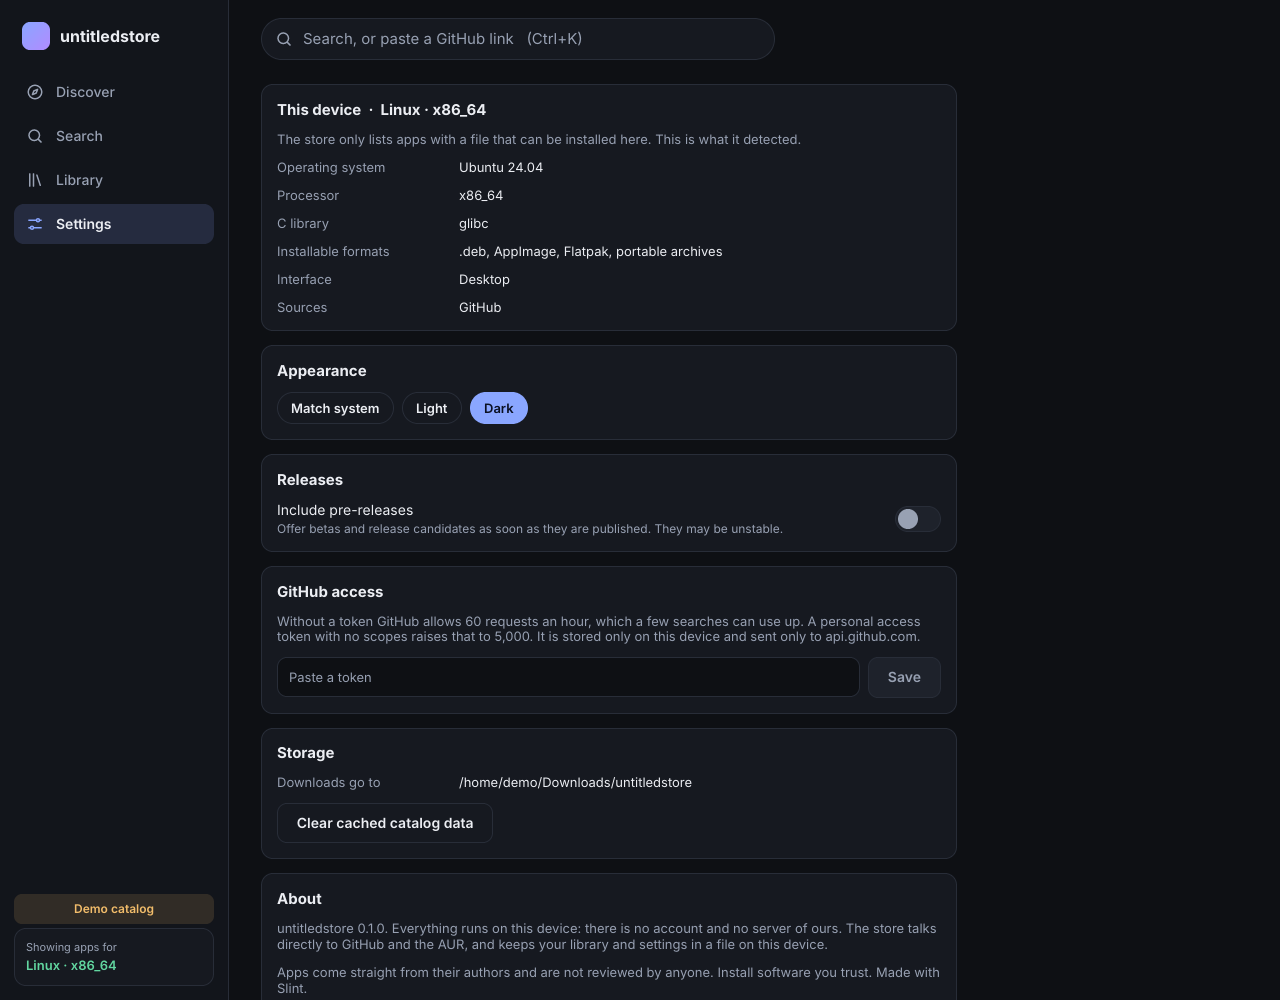
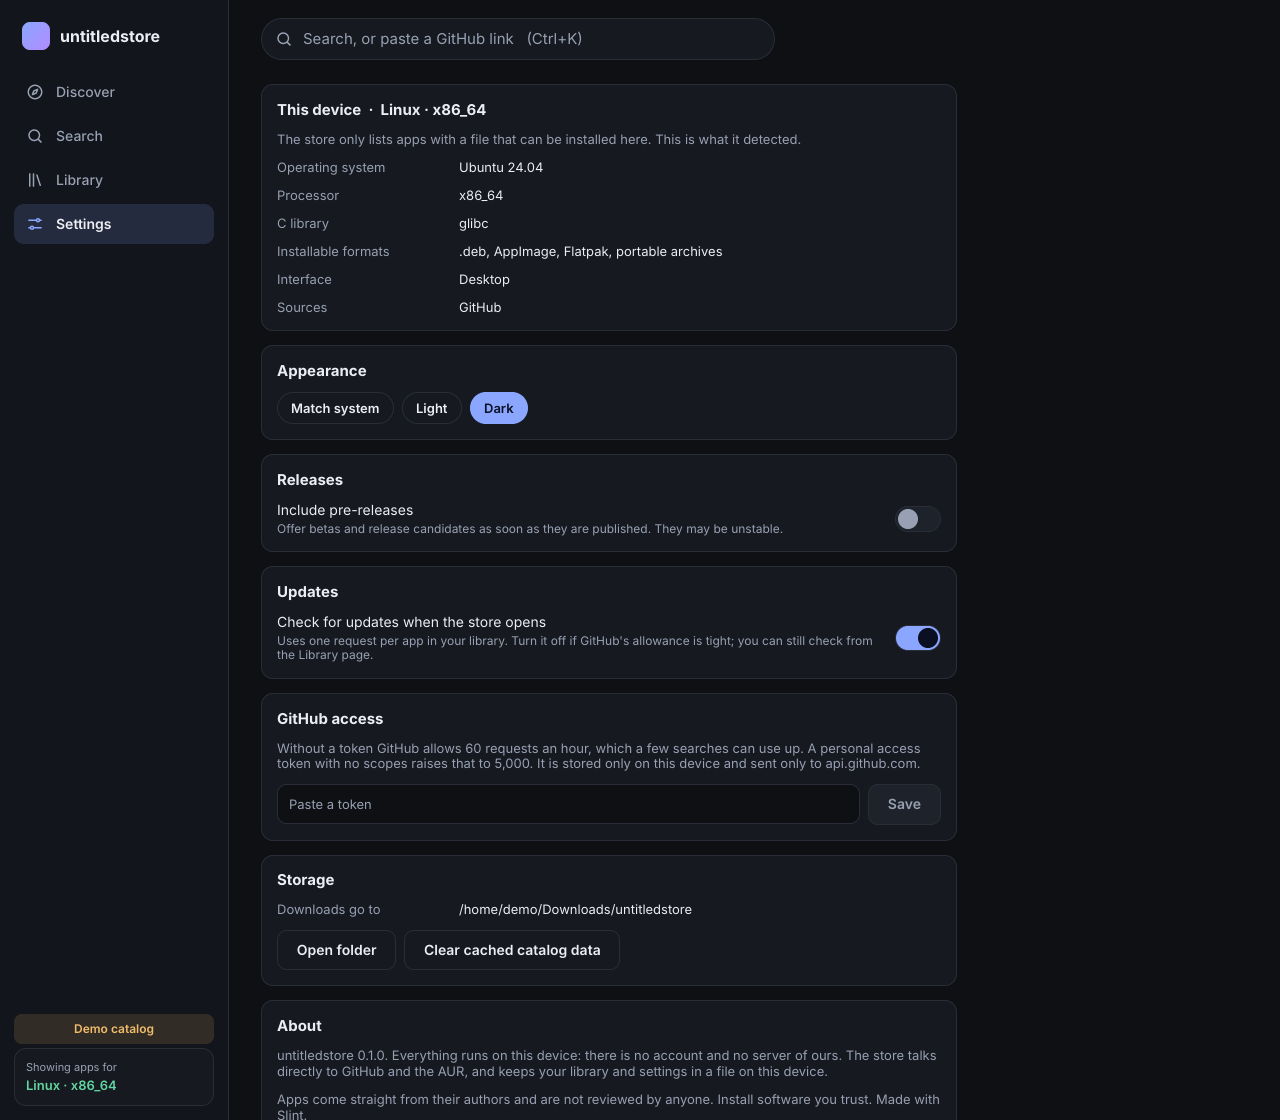
Stack storage buttons on phones; bring the documentation up to date
Claude-Session: https://claude.ai/code/session_01HGFb9u9kBDoKGezZG4dEng

diff --git a/docs/DESIGN.md b/docs/DESIGN.md
@@ -200,7 +200,11 @@ per repository. Consequences:
   shows it ("42 of 60 GitHub requests left; refills in 23 minutes"), and a rate-limit
   error says how to raise the limit. **[verified]** by test.
 - **Search checks a bounded number of hits** (8 without a token, 20 with), in parallel,
-  and reports how many matched but had nothing for this device.
+  and reports how many matched but had nothing for this device. Typing costs nothing:
+  suggestions come from the bundled index. An AUR search is a single request, because
+  its results already carry everything needed. **[verified]** by test.
+- **The start-up update check can be switched off** in Settings (one request per
+  library app).
 - **Responses are cached on disk** for 30 minutes, and a stale copy is served when
   offline or rate limited. **[verified]** by test.
 - **A personal token** lifts the limit to 5,000 per hour **[sourced]** (same page). It can
@@ -325,19 +329,19 @@ been run on a television.
 
 ## 8. Testing
 
-126 tests, none needing the internet. **[verified]**: all pass on Linux here, and the
-suite passed on GitHub's Linux, Windows and macOS runners (run 3 of the CI workflow, at
-the "Match search suggestions on word starts" commit; later commits are checked by the
-same workflow).
+139 tests, none needing the internet. **[verified]**: all pass on Linux here. The suite
+also passed on GitHub's Linux, Windows and macOS runners at an earlier commit (CI run 3);
+see the end of the hand-over notes for the status of the final commit.
 
 | Suite | Count | What it exercises |
 |---|---|---|
-| `ustore-core` unit tests | 58 | detection, classification, compatibility, versions, state file, install plans and execution, index, suggestions, catalog |
+| `ustore-core` unit tests | 60 | detection, classification, compatibility, versions, state file, install plans and execution, index, suggestions, catalog |
 | `core/tests/corpus.rs` | 4 | 169 real-world-style names; cross-OS/CPU safety property; 20,000 generated names |
-| `core/tests/http_sources.rs` | 15 | the real HTTP client and both sources against a local server: headers, token scoping, rate limits, allowance, progress, cancel, cache, documented JSON shapes, garbage responses |
-| `cli/tests/cli.rs` | 7 | the `ustore` binary end to end, including install, library and updates |
-| `app/tests/ui.rs` | 31 | the real window on Slint's headless backend: clicks by accessible label, key presses, all three interfaces |
-| `app/tests/binary.rs` | 5 | the real application (threads, event loop, software renderer) under `xvfb-run`, Linux only |
+| `core/tests/http_sources.rs` | 16 | the real HTTP client and both sources against a local server: headers, token scoping, rate limits, allowance, progress, cancel, cache, documented JSON shapes, garbage responses |
+| `cli/tests/cli.rs` | 8 | the `ustore` binary end to end, including install, library, updates and `doctor` |
+| `app/tests/ui.rs` | 34 | the real window on Slint's headless backend: clicks by accessible label, key presses, all three interfaces |
+| `app/tests/offline.rs` | 5 | the same window with a transport that goes offline or rate limited on demand, then recovers |
+| `app/tests/binary.rs` | 6 | the real application (threads, event loop, software renderer) under `xvfb-run`, Linux only |
 | `app/tests/contrast.rs` | 1 | WCAG contrast of every text/background pairing in both themes |
 | app unit tests | 5 | option parsing, release-note rendering, formatting |
 
@@ -353,6 +357,12 @@ Things the tests found while being written, all fixed:
 - 14 file-name misclassifications (section 4).
 - A test that clicked fixed coordinates broke when the layout changed; scripted runs
   now trigger actions by name instead.
+
+Found by reading the code rather than by a test, then pinned with tests: updates between
+release candidates (`rc.1` to `rc.2`) and Arch package releases (`-1` to `-2`) were never
+offered; the Windows hand-off went through `cmd.exe`, which interprets characters such
+as `&` in file names chosen by release authors (now Explorer; **not run on Windows**);
+and the page promised a checksum check for digest formats it could not check.
 
 Also checked automatically: every button, tab and switch has an accessible name; a
 state file that cannot be written or read produces a message instead of a crash.

diff --git a/README.md b/README.md
@@ -36,6 +36,9 @@ Screenshots show the built-in demo catalog; the apps in it are fictional.
   newer releases that fit your device. Older versions can be picked from the app page.
 - **Three interfaces** in one app: desktop (mouse and full keyboard use), mobile (touch),
   TV (remote only). Light and dark themes.
+- **Works badly-connected**: Discover and suggestions need no network; failed lookups
+  say what went wrong and can be retried; cached answers are used when GitHub's
+  allowance runs out.
 - **Honest about limits**: shows GitHub's remaining request allowance, takes an optional
   token to raise it, says plainly that nothing in the catalog is reviewed, and warns
   about pre-releases, abandoned projects and out-of-date AUR packages.
@@ -46,8 +49,8 @@ A working vertical slice. It has only ever been looked at on Linux.
 
 | | State |
 |---|---|
-| Engine, sources, library, updates, install planning | Implemented; 126 automated tests |
-| Desktop, mobile and TV interfaces | Implemented; 31 tests drive the real window headlessly, 5 more run the real binary under a virtual display |
+| Engine, sources, library, updates, install planning | Implemented; 139 automated tests in total |
+| Desktop, mobile and TV interfaces | Implemented; 40 tests drive the real window headlessly, 6 more run the real binary under a virtual display |
 | Linux | Builds, runs, all tests pass |
 | Windows, macOS | Builds and the test suite passes on GitHub's Windows and macOS runners. Those tests use a headless backend: **nobody has seen the window on either system**, and installer hand-off there is untried |
 | Android (phone, tablet, TV) | Core type-checks; entry point written; **no APK packaging**, and handing APKs to the system installer is not implemented (the UI says so) |
@@ -96,7 +99,7 @@ cargo test --workspace
 ```
 
 No internet needed. The network tests start their own server on localhost and the UI
-tests use Slint's headless backend. On Linux, five more tests run the real binary under
+tests use Slint's headless backend. On Linux, six more tests run the real binary under
 `xvfb-run` and are skipped if it is not installed. CI runs the suite on Linux, Windows
 and macOS. See [Testing](docs/DESIGN.md#8-testing).
 
